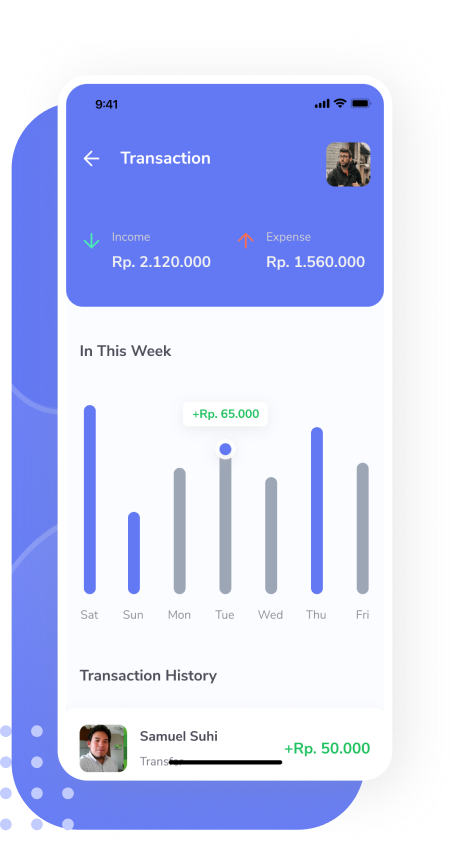
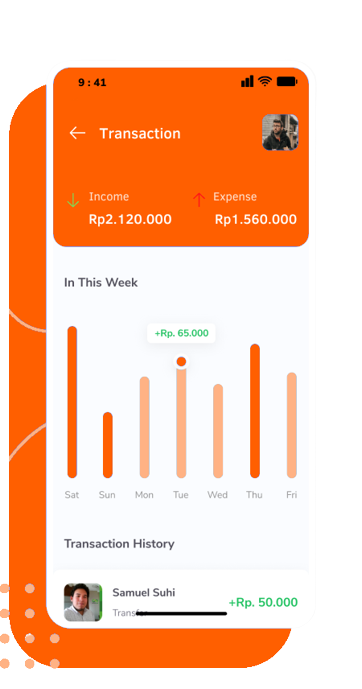
change image and background color

diff --git a/pages/create-new-password.js b/pages/create-new-password.js
@@ -38,15 +38,17 @@ const CreateNewPassword = () => {
     </Head>
     <div className="flex font-primary">
       {/* Left */}
-      <div className="hidden md:block flex-[55%] bg-[url('../assets/images/authbackground.png')] h-screen px-28 py-5">
-        <h1 className="font-bold text-4xl text-white mb-10">LetsPay</h1>
-        <Image src={require('../assets/images/doublebanner.png')} alt='banner' className='w-3/5 mb-5'/>
+        <div className="hidden md:block flex-[55%] bg-primary h-screen px-28 py-5">
+        <svg xmlns="http://www.w3.org/2000/svg" className='absolute left-0 top-0 h-60' viewBox="0 0 1440 320"><path fill="#ff9500" fill-opacity="1" d="M0,96L60,117.3C120,139,240,181,360,202.7C480,224,600,224,720,192C840,160,960,96,1080,85.3C1200,75,1320,117,1380,138.7L1440,160L1440,0L1380,0C1320,0,1200,0,1080,0C960,0,840,0,720,0C600,0,480,0,360,0C240,0,120,0,60,0L0,0Z"></path></svg>
+        <svg xmlns="http://www.w3.org/2000/svg" className='absolute left-0 top-3 h-60' viewBox="0 0 1440 320"><path fill="#ff9500" fill-opacity="0.5" d="M0,96L60,117.3C120,139,240,181,360,202.7C480,224,600,224,720,192C840,160,960,96,1080,85.3C1200,75,1320,117,1380,138.7L1440,160L1440,0L1380,0C1320,0,1200,0,1080,0C960,0,840,0,720,0C600,0,480,0,360,0C240,0,120,0,60,0L0,0Z"></path></svg>
+        <h1 className="relative font-bold text-4xl text-white mb-10">LetsPay</h1>
+        <Image src={require('../assets/images/doublebanner.png')} alt='banner' className='relative w-3/5 mb-5'/>
         <h2 className="font-bold text-xl text-white mb-5">App that Covering Banking Needs.</h2>
         <p className="text-white text-sm">LetsPay is an application that focussing in banking needs for all users in the world. Always updated and always following world trends. 5000+ users registered in LetsPay everyday with worldwide users coverage.</p>
       </div>
 
       {/* Right */}
-      <div className="flex-[45%] bg-orange-50 md:pl-16 md:pr-36 md:py-10">
+      <div className="relative flex-[45%] bg-orange-50 md:pl-16 md:pr-36 md:py-10">
         <div className="md:hidden text-center p-16">
           <h1 className="font-bold text-4xl text-primary">LetsPay</h1>
         </div>
@@ -73,12 +75,11 @@ const CreateNewPassword = () => {
           </div>
           <div className="flex justify-center items-center w-full h-8 mb-10">
           {!filledPassword || !filledConfirmPassword ?
-          <button disabled className={`w-full bg-slate-300 text-secondary font-bold py-3 border rounded-xl`}>Reset Password</button> :
+          <button disabled className={`w-full bg-gray-200 text-gray-300 font-bold py-3 border rounded-xl`}>Reset Password</button> :
           <button className={`w-full bg-primary text-white font-bold py-3 border rounded-xl active:w-11/12 active:py-2 active:text-sm`}>Reset Password</button>
           }
           </div>
         </form>
-
         </div>
       </div>
     </div>

diff --git a/pages/index.js b/pages/index.js
@@ -87,17 +87,17 @@ const LandingPage = () => {
         <h1 className="md:text-6xl font-bold text-center mb-3 md:mb-10"><span className="text-primary">About</span> the Application.</h1>
         <p className="text-sm md:text-lg md:w-7/12 text-center mb-3 md:mb-10">We have some great features from the application and it&apos;s totally free to use by all users around the world.</p>
         <div className='grid md:grid-cols-3 gap-3 md:gap-5'>
-          <div className='flex flex-col items-center justify-center border hover:bg-white hover:rounded-xl p-5 md:px-8 md:py-12'>
+          <div className='flex flex-col items-center justify-center hover:bg-white hover:rounded-xl p-5 md:px-8 md:py-12'>
             <div className='bg-slate-300 flex justify-center items-center w-12 h-12 rounded-full mb-3 md:mb-6'><Phone className='text-primary'/></div>
             <h3 className='md:text-xl font-bold mb-5 md:mb-12'>24/7 Support</h3>
             <p className='text-center text-sm md:text-base'>We have 24/7 contact support so you can contact us whenever you want and we will respond it.</p>
           </div>
-          <div className='flex flex-col items-center justify-center border hover:bg-white hover:rounded-xl p-5 md:px-8 md:py-12'>
+          <div className='flex flex-col items-center justify-center hover:bg-white hover:rounded-xl p-5 md:px-8 md:py-12'>
             <div className='bg-slate-300 flex justify-center items-center w-12 h-12 rounded-full mb-3 md:mb-6'><Lock className='text-primary'/></div>
             <h3 className='md:text-xl font-bold mb-5 md:mb-12'>Data Privacy</h3>
             <p className='text-center text-sm md:text-base'>We make sure your data is safe in our database and we will encrypt any data you submitted to us.</p>
           </div>
-          <div className='flex flex-col items-center justify-center border hover:bg-white hover:rounded-xl p-5 md:px-8 md:py-12'>
+          <div className='flex flex-col items-center justify-center hover:bg-white hover:rounded-xl p-5 md:px-8 md:py-12'>
             <div className='bg-slate-300 flex justify-center items-center w-12 h-12 rounded-full mb-3 md:mb-6'><Download className='text-primary'/></div>
             <h3 className='md:text-xl font-bold mb-5 md:mb-12'>Easy Download</h3>
             <p className='text-center text-sm md:text-base'>Zwallet is 100% totally free to use it&apos;s now available on Google Play Store and App Store.</p>

diff --git a/pages/pin.js b/pages/pin.js
@@ -35,15 +35,17 @@ const Pin = () => {
     </Head>
     <div className="flex font-primary">
       {/* Left */}
-      <div className="hidden md:block flex-[55%] bg-[url('../assets/images/authbackground.png')] h-screen px-28 py-5">
-        <h1 className="font-bold text-4xl text-white mb-10">LetsPay</h1>
-        <Image src={require('../assets/images/doublebanner.png')} alt='banner' className='w-3/5 mb-5'/>
+      <div className="hidden md:block flex-[55%] bg-primary h-screen px-28 py-5">
+        <svg xmlns="http://www.w3.org/2000/svg" className='absolute left-0 top-0 h-60' viewBox="0 0 1440 320"><path fill="#ff9500" fill-opacity="1" d="M0,96L60,117.3C120,139,240,181,360,202.7C480,224,600,224,720,192C840,160,960,96,1080,85.3C1200,75,1320,117,1380,138.7L1440,160L1440,0L1380,0C1320,0,1200,0,1080,0C960,0,840,0,720,0C600,0,480,0,360,0C240,0,120,0,60,0L0,0Z"></path></svg>
+        <svg xmlns="http://www.w3.org/2000/svg" className='absolute left-0 top-3 h-60' viewBox="0 0 1440 320"><path fill="#ff9500" fill-opacity="0.5" d="M0,96L60,117.3C120,139,240,181,360,202.7C480,224,600,224,720,192C840,160,960,96,1080,85.3C1200,75,1320,117,1380,138.7L1440,160L1440,0L1380,0C1320,0,1200,0,1080,0C960,0,840,0,720,0C600,0,480,0,360,0C240,0,120,0,60,0L0,0Z"></path></svg>
+        <h1 className="relative font-bold text-4xl text-white mb-10">LetsPay</h1>
+        <Image src={require('../assets/images/doublebanner.png')} alt='banner' className='relative w-3/5 mb-5'/>
         <h2 className="font-bold text-xl text-white mb-5">App that Covering Banking Needs.</h2>
         <p className="text-white text-sm">LetsPay is an application that focussing in banking needs for all users in the world. Always updated and always following world trends. 5000+ users registered in LetsPay everyday with worldwide users coverage.</p>
       </div>
 
       {/* Right */}
-      <div className="flex-[45%] flex flex-col justify-center h-screen bg-orange-50 md:pl-16 md:pr-36 md:py-10">
+      <div className="relative flex-[45%] flex flex-col justify-center h-screen bg-orange-50 md:pl-16 md:pr-36 md:py-10">
         <div className="md:hidden text-center p-16">
           <h1 className="font-bold text-4xl text-primary">LetsPay</h1>
         </div>

diff --git a/pages/sign-up.js b/pages/sign-up.js
@@ -63,15 +63,17 @@ const SignUp = () => {
     </Head>
     <div className="flex font-primary">
       {/* Left */}
-      <div className="hidden md:block flex-[55%] bg-[url('../assets/images/authbackground.png')] h-screen px-28 py-5">
-        <h1 className="font-bold text-4xl text-white mb-10">LetsPay</h1>
-        <Image src={require('../assets/images/doublebanner.png')} alt='banner' className='w-3/5 mb-5'/>
+      <div className="relative hidden md:block flex-[55%] bg-primary h-screen px-28 py-5">
+        <svg xmlns="http://www.w3.org/2000/svg" className='absolute left-0 top-0 h-60' viewBox="0 0 1440 320"><path fill="#ff9500" fill-opacity="1" d="M0,96L60,117.3C120,139,240,181,360,202.7C480,224,600,224,720,192C840,160,960,96,1080,85.3C1200,75,1320,117,1380,138.7L1440,160L1440,0L1380,0C1320,0,1200,0,1080,0C960,0,840,0,720,0C600,0,480,0,360,0C240,0,120,0,60,0L0,0Z"></path></svg>
+        <svg xmlns="http://www.w3.org/2000/svg" className='absolute left-0 top-3 h-60' viewBox="0 0 1440 320"><path fill="#ff9500" fill-opacity="0.5" d="M0,96L60,117.3C120,139,240,181,360,202.7C480,224,600,224,720,192C840,160,960,96,1080,85.3C1200,75,1320,117,1380,138.7L1440,160L1440,0L1380,0C1320,0,1200,0,1080,0C960,0,840,0,720,0C600,0,480,0,360,0C240,0,120,0,60,0L0,0Z"></path></svg>
+        <h1 className="relative font-bold text-4xl text-white mb-10">LetsPay</h1>
+        <Image src={require('../assets/images/doublebanner.png')} alt='banner' className='relative w-3/5 mb-5'/>
         <h2 className="font-bold text-xl text-white mb-5">App that Covering Banking Needs.</h2>
         <p className="text-white text-sm">LetsPay is an application that focussing in banking needs for all users in the world. Always updated and always following world trends. 5000+ users registered in LetsPay everyday with worldwide users coverage.</p>
       </div>
 
       {/* Right */}
-      <div className="flex-[45%] bg-orange-50 md:pl-16 md:pr-36 md:py-10 overflow-y-scroll h-screen">
+      <div className="relative flex-[45%] bg-orange-50 md:pl-16 md:pr-36 md:py-10 overflow-y-scroll h-screen">
         <div className="md:hidden text-center p-16">
           <h1 className="font-bold text-4xl text-primary">LetsPay</h1>
         </div>

diff --git a/pages/login.js b/pages/login.js
@@ -43,15 +43,17 @@ const Login = () => {
     </Head>
     <div className="flex font-primary">
       {/* Left */}
-      <div className="hidden md:block flex-[55%] bg-[url('../assets/images/authbackground.png')] h-screen px-28 py-5">
-        <h1 className="font-bold text-4xl text-white mb-10">LetsPay</h1>
-        <Image src={require('../assets/images/doublebanner.png')} alt='banner' className='w-3/5 mb-5'/>
+      <div className="hidden md:block flex-[55%] bg-primary h-screen px-28 py-5">
+        <svg xmlns="http://www.w3.org/2000/svg" className='absolute left-0 top-0 h-60' viewBox="0 0 1440 320"><path fill="#ff9500" fill-opacity="1" d="M0,96L60,117.3C120,139,240,181,360,202.7C480,224,600,224,720,192C840,160,960,96,1080,85.3C1200,75,1320,117,1380,138.7L1440,160L1440,0L1380,0C1320,0,1200,0,1080,0C960,0,840,0,720,0C600,0,480,0,360,0C240,0,120,0,60,0L0,0Z"></path></svg>
+        <svg xmlns="http://www.w3.org/2000/svg" className='absolute left-0 top-3 h-60' viewBox="0 0 1440 320"><path fill="#ff9500" fill-opacity="0.5" d="M0,96L60,117.3C120,139,240,181,360,202.7C480,224,600,224,720,192C840,160,960,96,1080,85.3C1200,75,1320,117,1380,138.7L1440,160L1440,0L1380,0C1320,0,1200,0,1080,0C960,0,840,0,720,0C600,0,480,0,360,0C240,0,120,0,60,0L0,0Z"></path></svg>
+        <h1 className="relative font-bold text-4xl text-white mb-10">LetsPay</h1>
+        <Image src={require('../assets/images/doublebanner.png')} alt='banner' className='relative w-3/5 mb-5'/>
         <h2 className="font-bold text-xl text-white mb-5">App that Covering Banking Needs.</h2>
         <p className="text-white text-sm">LetsPay is an application that focussing in banking needs for all users in the world. Always updated and always following world trends. 5000+ users registered in LetsPay everyday with worldwide users coverage.</p>
       </div>
 
       {/* Right */}
-      <div className="flex-[45%] bg-orange-50 md:pl-16 md:pr-36 md:py-10">
+      <div className="relative flex-[45%] bg-orange-50 md:pl-16 md:pr-36 md:py-10">
         <div className="md:hidden text-center p-16">
           <h1 className="font-bold text-4xl text-primary">LetsPay</h1>
         </div>

diff --git a/pages/reset-password.js b/pages/reset-password.js
@@ -28,15 +28,17 @@ const Login = () => {
     </Head>
     <div className="flex font-primary">
       {/* Left */}
-      <div className="hidden md:block flex-[55%] bg-[url('../assets/images/authbackground.png')] h-screen px-28 py-5">
-        <h1 className="font-bold text-xl text-white mb-10">LetsPay</h1>
-        <Image src={require('../assets/images/doublebanner.png')} alt='banner' className='w-3/5 mb-5'/>
+      <div className="hidden md:block flex-[55%] bg-primary h-screen px-28 py-5">
+        <svg xmlns="http://www.w3.org/2000/svg" className='absolute left-0 top-0 h-60' viewBox="0 0 1440 320"><path fill="#ff9500" fill-opacity="1" d="M0,96L60,117.3C120,139,240,181,360,202.7C480,224,600,224,720,192C840,160,960,96,1080,85.3C1200,75,1320,117,1380,138.7L1440,160L1440,0L1380,0C1320,0,1200,0,1080,0C960,0,840,0,720,0C600,0,480,0,360,0C240,0,120,0,60,0L0,0Z"></path></svg>
+        <svg xmlns="http://www.w3.org/2000/svg" className='absolute left-0 top-3 h-60' viewBox="0 0 1440 320"><path fill="#ff9500" fill-opacity="0.5" d="M0,96L60,117.3C120,139,240,181,360,202.7C480,224,600,224,720,192C840,160,960,96,1080,85.3C1200,75,1320,117,1380,138.7L1440,160L1440,0L1380,0C1320,0,1200,0,1080,0C960,0,840,0,720,0C600,0,480,0,360,0C240,0,120,0,60,0L0,0Z"></path></svg>
+        <h1 className="relative font-bold text-3xl text-white mb-10">LetsPay</h1>
+        <Image src={require('../assets/images/doublebanner.png')} alt='banner' className='relative w-3/5 mb-5'/>
         <h2 className="font-bold text-xl text-white mb-5">App that Covering Banking Needs.</h2>
         <p className="text-white text-sm">LetsPay is an application that focussing in banking needs for all users in the world. Always updated and always following world trends. 5000+ users registered in LetsPay everyday with worldwide users coverage.</p>
       </div>
 
       {/* Right */}
-      <div className="flex-[45%] bg-orange-50 md:pl-16 md:pr-36 md:py-10">
+      <div className="relative flex-[45%] bg-orange-50 md:pl-16 md:pr-36 md:py-10">
         <div className="md:hidden text-center p-16">
           <h1 className="font-bold text-2xl text-primary">LetsPay</h1>
         </div>

diff --git a/pages/phone-number.js b/pages/phone-number.js
@@ -33,7 +33,9 @@ const PhoneNumber = () => {
     </Head>
     <div className="flex font-primary">
       {/* Left */}
-      <div className="hidden md:block flex-[55%] bg-[url('../assets/images/authbackground.png')] h-screen px-28 py-5">
+      <div className="hidden md:block flex-[55%] h-screen px-28 py-5">
+        <svg xmlns="http://www.w3.org/2000/svg" className='absolute left-0 top-0 h-60' viewBox="0 0 1440 320"><path fill="#ff9500" fill-opacity="1" d="M0,96L60,117.3C120,139,240,181,360,202.7C480,224,600,224,720,192C840,160,960,96,1080,85.3C1200,75,1320,117,1380,138.7L1440,160L1440,0L1380,0C1320,0,1200,0,1080,0C960,0,840,0,720,0C600,0,480,0,360,0C240,0,120,0,60,0L0,0Z"></path></svg>
+        <svg xmlns="http://www.w3.org/2000/svg" className='absolute left-0 top-3 h-60' viewBox="0 0 1440 320"><path fill="#ff9500" fill-opacity="0.5" d="M0,96L60,117.3C120,139,240,181,360,202.7C480,224,600,224,720,192C840,160,960,96,1080,85.3C1200,75,1320,117,1380,138.7L1440,160L1440,0L1380,0C1320,0,1200,0,1080,0C960,0,840,0,720,0C600,0,480,0,360,0C240,0,120,0,60,0L0,0Z"></path></svg>
         <h1 className="font-bold text-4xl text-white mb-10">LetsPay</h1>
         <Image src={require('../assets/images/doublebanner.png')} alt='banner' className='w-3/5 mb-5'/>
         <h2 className="font-bold text-xl text-white mb-5">App that Covering Banking Needs.</h2>
@@ -41,7 +43,7 @@ const PhoneNumber = () => {
       </div>
 
       {/* Right */}
-      <div className="flex-[45%] flex flex-col justify-center h-screen bg-orange-50 md:pl-16 md:pr-36 md:py-10">
+      <div className="relative flex-[45%] flex flex-col justify-center h-screen bg-orange-50 md:pl-16 md:pr-36 md:py-10">
         <div className="md:hidden text-center p-16">
           <h1 className="font-bold text-4xl text-primary">LetsPay</h1>
         </div>

diff --git a/pages/otp.js b/pages/otp.js
@@ -21,7 +21,9 @@ const Otp = () => {
     </Head>
     <div className="flex font-primary">
       {/* Left */}
-      <div className="hidden md:block flex-[55%] bg-[url('../assets/images/authbackground.png')] h-screen px-28 py-5">
+      <div className="hidden md:block flex-[55%] h-screen px-28 py-5">
+        <svg xmlns="http://www.w3.org/2000/svg" className='absolute left-0 top-0 h-60' viewBox="0 0 1440 320"><path fill="#ff9500" fill-opacity="1" d="M0,96L60,117.3C120,139,240,181,360,202.7C480,224,600,224,720,192C840,160,960,96,1080,85.3C1200,75,1320,117,1380,138.7L1440,160L1440,0L1380,0C1320,0,1200,0,1080,0C960,0,840,0,720,0C600,0,480,0,360,0C240,0,120,0,60,0L0,0Z"></path></svg>
+        <svg xmlns="http://www.w3.org/2000/svg" className='absolute left-0 top-3 h-60' viewBox="0 0 1440 320"><path fill="#ff9500" fill-opacity="0.5" d="M0,96L60,117.3C120,139,240,181,360,202.7C480,224,600,224,720,192C840,160,960,96,1080,85.3C1200,75,1320,117,1380,138.7L1440,160L1440,0L1380,0C1320,0,1200,0,1080,0C960,0,840,0,720,0C600,0,480,0,360,0C240,0,120,0,60,0L0,0Z"></path></svg>
         <h1 className="font-bold text-4xl text-white mb-10">LetsPay</h1>
         <Image src={require('../assets/images/doublebanner.png')} alt='banner' className='w-3/5 mb-5'/>
         <h2 className="font-bold text-xl text-white mb-5">App that Covering Banking Needs.</h2>
@@ -29,7 +31,7 @@ const Otp = () => {
       </div>
 
       {/* Right */}
-      <div className="flex-[45%] flex flex-col justify-center h-screen bg-orange-50 md:pl-16 md:pr-36 md:py-10">
+      <div className="relative flex-[45%] flex flex-col justify-center h-screen bg-orange-50 md:pl-16 md:pr-36 md:py-10">
         <div className="md:hidden text-center p-16">
           <h1 className="font-bold text-4xl text-primary">LetsPay</h1>
         </div>
